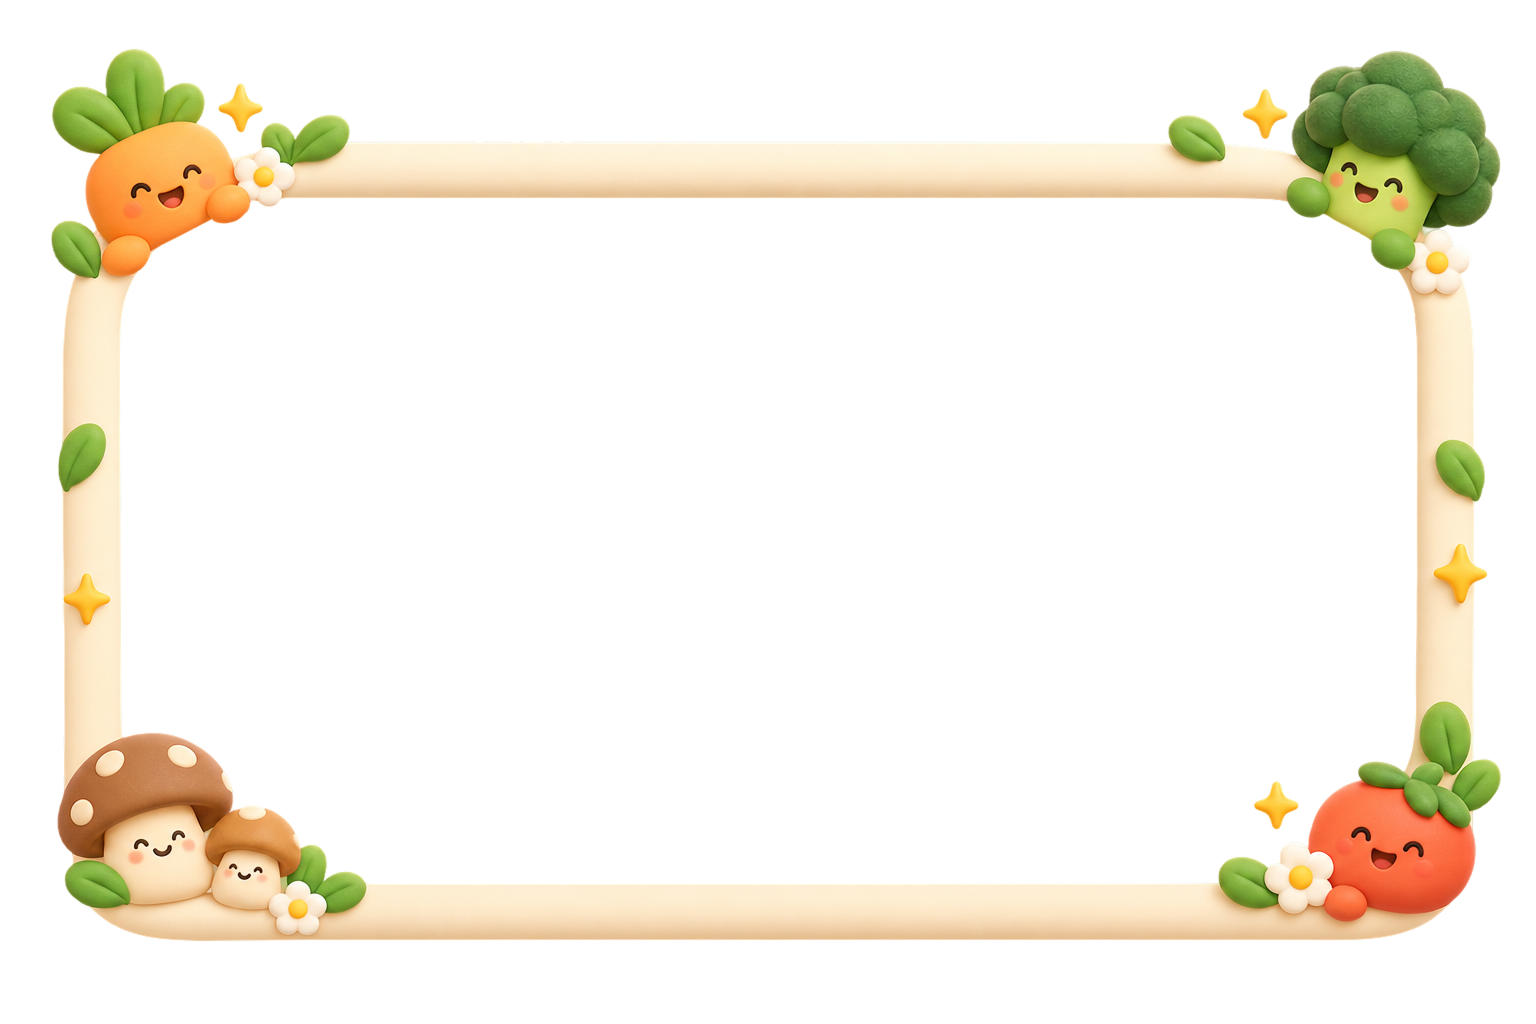
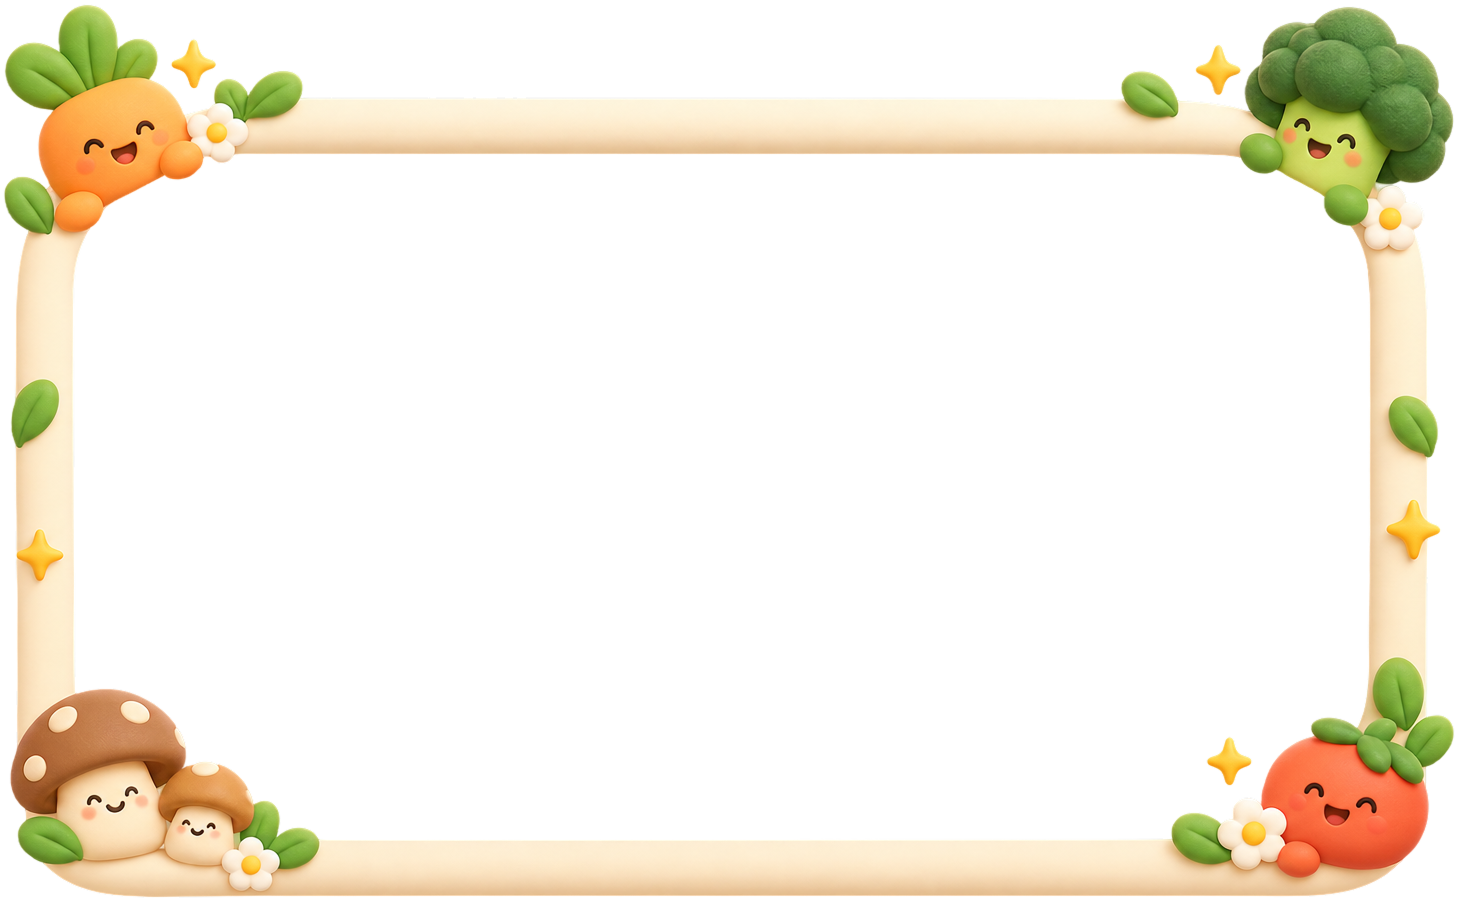
Scan station sized for the 55" TV: the framed camera fills the screen
The frame art is trimmed to its opaque bounds (1458x902, insets re-measured),
the build screens get the full TV width, the dance drops its redundant
heading so the frame takes nearly the whole height, the welcome mirror and
photo step grow to match, and prompts/titles scale up for viewing distance.

diff --git a/src/styles.css b/src/styles.css
@@ -152,7 +152,8 @@ body.stage-welcome { background: var(--bg1) url("/welcome-bg.jpg") center / cove
 .staff-item small { display: block; color: var(--muted); font-weight: 700; }
 
 /* ---- welcome: a mirror in the clay frame, auto-start (2-column landscape) ---- */
-body.stage-welcome .app { max-width: 1560px; }
+body.stage-welcome .app { max-width: 1800px; }
+body.stage-build .app { max-width: 1840px; }
 .welcome { flex-direction: row; flex-wrap: wrap; align-items: center; justify-content: center; gap: 40px; }
 .welcome-left { display: flex; flex-direction: column; align-items: center; text-align: center; gap: 18px; flex: 0 1 400px; min-width: 0; }
 .welcome-hero { display: flex; flex-direction: column; align-items: center; gap: 8px; }
@@ -173,7 +174,7 @@ body.stage-welcome .app { max-width: 1560px; }
 .mini-caption { font-weight: 800; font-size: 14px; color: #a8642a; white-space: nowrap; }
 .staff-start { opacity: 0.55; font-size: 16px; padding: 8px 18px; }
 /* the mirror */
-.mirror { display: flex; flex-direction: column; align-items: center; gap: 6px; flex: 1 1 640px; max-width: 1060px; min-width: min(100%, 520px); }
+.mirror { display: flex; flex-direction: column; align-items: center; gap: 6px; flex: 1 1 640px; max-width: min(1280px, calc((100vh - 120px) * 1.6164)); min-width: min(100%, 520px); }
 .mirror-stage { position: relative; width: 100%; }
 .mirror-cam { position: absolute; inset: 0; width: 100%; height: 100%; object-fit: cover; transform: scaleX(-1); }
 .mirror-overlay { position: absolute; inset: 0; width: 100%; height: 100%; pointer-events: none; }
@@ -182,15 +183,15 @@ body.stage-welcome .app { max-width: 1560px; }
 .mirror-ph p { margin: 0; }
 .mirror-flash { position: absolute; inset: 0; background: #fff; animation: snapFlash 0.55s ease-out forwards; }
 @keyframes snapFlash { from { opacity: 0.95; } to { opacity: 0; } }
-.mirror-pill { position: absolute; left: 50%; bottom: 4%; transform: translateX(-50%); z-index: 3; background: rgba(255, 255, 255, 0.94); color: var(--green-dark); font-weight: 800; font-size: clamp(18px, 2.1vw, 30px); padding: 10px 26px; border-radius: 999px; box-shadow: var(--shadow); white-space: nowrap; animation: promptBounce 0.8s ease-in-out infinite alternate; }
+.mirror-pill { position: absolute; left: 50%; bottom: 1.5%; transform: translateX(-50%); z-index: 3; background: rgba(255, 255, 255, 0.94); color: var(--green-dark); font-weight: 800; font-size: clamp(18px, 2.1vw, 38px); padding: 10px 26px; border-radius: 999px; box-shadow: var(--shadow); white-space: nowrap; animation: promptBounce 0.8s ease-in-out infinite alternate; }
 .mirror-pill.still, .mirror-pill.count { background: var(--green); color: #fff; }
 .mirror-note { margin: 0; font-size: 14px; font-weight: 700; color: var(--muted); }
 .gate-hud { position: absolute; left: 10px; top: 10px; margin: 0; z-index: 3; background: rgba(0, 0, 0, 0.55); color: #9ff; font: 600 13px/1.5 ui-monospace, monospace; padding: 8px 10px; border-radius: 10px; white-space: pre; }
 
 /* ---- the clay veggie frame around every camera view ---- */
-.cam-frame { position: relative; width: 100%; aspect-ratio: 3 / 2; }
+.cam-frame { position: relative; width: 100%; aspect-ratio: 1458 / 902; }
 /* the art's transparent window, measured from the painting (its inner edges) */
-.cam-window { position: absolute; left: 7.6%; top: 18.1%; right: 7.5%; bottom: 13.4%; border-radius: 5% / 9.5%; overflow: hidden; background: #1d2a18; }
+.cam-window { position: absolute; left: 5%; top: 15.9%; right: 6%; bottom: 6.8%; border-radius: 5% / 9%; overflow: hidden; background: #1d2a18; }
 .cam-frame-art { position: absolute; inset: 0; width: 100%; height: 100%; pointer-events: none; user-select: none; z-index: 2; }
 
 /* ---- top bar ---- */
@@ -285,12 +286,12 @@ body.stage-welcome .app { max-width: 1560px; }
 .lead small { color: var(--muted); font-weight: 700; font-size: 19px; }
 
 /* ---- camera ---- */
-.camera-box { width: min(100%, calc((100vh - 240px) * 1.5), 1100px); }
+.camera-box { width: min(100%, calc((100vh - 220px) * 1.6164), 1500px); }
 /* tablet landscape: the framed camera fills the stage */
 @media (orientation: landscape) {
   .app { max-width: 1240px; }
   .screen { padding: 14px 28px; gap: 14px; }
-  .camera-box { width: min(100%, calc((100vh - 200px) * 1.5), 1200px); }
+  .camera-box { width: min(100%, calc((100vh - 190px) * 1.6164), 1500px); }
 }
 /* invitation cover — camera stays OFF until the child taps this */
 .camera-cover { position: relative; width: 100%; height: 100%; border: none; cursor: pointer; font-family: inherit; background: linear-gradient(160deg, #faeed3, #d9ecf7); display: flex; flex-direction: column; align-items: center; justify-content: center; gap: 14px; padding: 24px; overflow: hidden; }
@@ -535,19 +536,19 @@ video.camera { transform: scaleX(-1); }
 @keyframes guideBreathe { 0%, 100% { inset: 9%; } 50% { inset: 7.5%; } }
 
 /* dance mini-game: one magic move per scene charges the magic gauge */
-.dance-stage { position: relative; display: flex; flex-direction: column; align-items: center; gap: 14px; width: min(96vw, 1500px); user-select: none; touch-action: manipulation; }
-.move-scene { display: flex; flex-direction: column; align-items: center; gap: 14px; width: 100%; animation: sceneIn 0.55s cubic-bezier(0.2, 0.9, 0.3, 1.2); }
+.dance-stage { position: relative; display: flex; flex-direction: column; align-items: center; gap: 10px; width: min(96vw, 1840px); user-select: none; touch-action: manipulation; }
+.move-scene { display: flex; flex-direction: column; align-items: center; gap: 10px; width: 100%; animation: sceneIn 0.55s cubic-bezier(0.2, 0.9, 0.3, 1.2); }
 @keyframes sceneIn { from { opacity: 0; transform: translateX(60px) scale(0.96); } to { opacity: 1; transform: none; } }
 .move-head { display: flex; align-items: center; gap: 14px; }
 .move-badge { background: #fff; color: var(--green-dark); font-weight: 800; font-size: clamp(14px, 2.2vmin, 20px); padding: 6px 14px; border-radius: 999px; box-shadow: var(--shadow); }
-.move-title { margin: 0; font-size: clamp(26px, 4.6vmin, 44px); font-weight: 800; color: var(--ink); }
+.move-title { margin: 0; font-size: clamp(26px, 5vmin, 54px); font-weight: 800; color: var(--ink); }
 /* the framed camera fills the stage; the guide child stands on its right edge */
-.dance-cam-wrap { position: relative; width: min(100%, calc((100vh - 300px) * 1.5)); }
+.dance-cam-wrap { position: relative; width: min(100%, calc((100vh - 215px) * 1.6164)); }
 .dance-cam-box { width: 100%; }
 .move-guide { position: absolute; right: 2%; bottom: 5%; height: 62%; z-index: 3; transform: translateX(40%); display: flex; flex-direction: column; align-items: center; justify-content: flex-end; pointer-events: none; }
 .move-guide img { height: 100%; width: auto; display: block; filter: drop-shadow(0 14px 16px rgba(120, 80, 30, 0.28)); animation: guideBob 2.2s ease-in-out infinite; transform-origin: 50% 100%; transition: filter 0.25s ease; }
 .move-guide.hit img { filter: drop-shadow(0 0 22px rgba(255, 190, 60, 0.95)) drop-shadow(0 14px 16px rgba(120, 80, 30, 0.28)); animation: guideCheer 0.5s ease-in-out infinite alternate; }
-.move-guide-label { position: absolute; bottom: 100%; margin-bottom: 8px; background: #fff; color: var(--green-dark); font-weight: 800; font-size: clamp(16px, 2.4vmin, 24px); padding: 8px 18px; border-radius: 999px; box-shadow: var(--shadow); white-space: nowrap; }
+.move-guide-label { position: absolute; bottom: 100%; margin-bottom: 8px; background: #fff; color: var(--green-dark); font-weight: 800; font-size: clamp(16px, 2.6vmin, 30px); padding: 8px 18px; border-radius: 999px; box-shadow: var(--shadow); white-space: nowrap; }
 .move-guide.hit .move-guide-label { background: var(--green); color: #fff; }
 @keyframes guideBob { 0%, 100% { transform: translateY(0) rotate(-1.5deg); } 50% { transform: translateY(-1.5%) rotate(1.5deg); } }
 @keyframes guideCheer { from { transform: scale(1.02) rotate(-3deg); } to { transform: scale(1.08) rotate(3deg); } }
@@ -557,12 +558,12 @@ video.camera { transform: scaleX(-1); }
 /* the beat between scenes */
 .move-cheer { position: absolute; inset: 0; z-index: 5; display: flex; flex-direction: column; align-items: center; justify-content: center; gap: 6px; background: rgba(253, 247, 231, 0.85); backdrop-filter: blur(6px); border-radius: var(--radius); font-size: clamp(34px, 6vmin, 64px); font-weight: 800; color: var(--green-dark); animation: pop 0.35s ease; }
 .move-cheer-star { font-size: 1.6em; animation: pictoCheer 0.4s ease-in-out infinite alternate; }
-.dance-prompt { position: absolute; left: 50%; bottom: 14px; transform: translateX(-50%); max-width: 92%; text-align: center; background: rgba(255, 255, 255, 0.92); color: var(--green-dark); font-weight: 800; font-size: clamp(18px, 3.4vmin, 30px); padding: 10px 22px; border-radius: 999px; box-shadow: var(--shadow); word-break: keep-all; animation: promptBounce 0.8s ease-in-out infinite alternate; }
+.dance-prompt { position: absolute; left: 50%; bottom: 14px; transform: translateX(-50%); max-width: 92%; text-align: center; background: rgba(255, 255, 255, 0.92); color: var(--green-dark); font-weight: 800; font-size: clamp(18px, 3.6vmin, 40px); padding: 10px 22px; border-radius: 999px; box-shadow: var(--shadow); word-break: keep-all; animation: promptBounce 0.8s ease-in-out infinite alternate; }
 @keyframes promptBounce { from { transform: translateX(-50%) translateY(0); } to { transform: translateX(-50%) translateY(-6px); } }
 .magic-gauge { position: relative; width: 100%; height: 42px; border-radius: 999px; background: rgba(255, 255, 255, 0.75); box-shadow: inset 0 2px 6px rgba(150, 100, 40, 0.18); overflow: hidden; }
 .magic-gauge-fill { height: 100%; border-radius: 999px; background: linear-gradient(90deg, #ffd54d, #ffb300, #ff8f5e); transition: width 0.25s ease-out; box-shadow: 0 0 14px rgba(255, 190, 60, 0.8); }
-.magic-gauge-label { position: absolute; inset: 0; display: flex; align-items: center; justify-content: center; font-weight: 800; color: #7a5410; font-size: clamp(15px, 2.6vmin, 22px); }
-.dance-hint { color: var(--ink-soft, #a3906f); font-size: clamp(13px, 2.2vmin, 18px); }
+.magic-gauge-label { position: absolute; inset: 0; display: flex; align-items: center; justify-content: center; font-weight: 800; color: #7a5410; font-size: clamp(15px, 2.6vmin, 26px); }
+.dance-hint { margin: 0; color: var(--ink-soft, #a3906f); font-size: clamp(13px, 2vmin, 20px); }
 
 /* "couldn't see it — hold it closer" auto-retry card */
 .noshow-card { display: flex; flex-direction: column; align-items: center; gap: 10px; background: #fff; border-radius: var(--radius); box-shadow: var(--shadow); padding: 34px 46px; font-size: clamp(18px, 3vmin, 26px); color: var(--ink); text-align: center; }

diff --git a/src/App.tsx b/src/App.tsx
@@ -22,9 +22,11 @@ export default function App() {
   }, []);
 
   // the welcome screen sits on the painted key visual; every other screen
-  // keeps the plain cream so the camera and results stay the focus
+  // keeps the plain cream so the camera and results stay the focus (and gets
+  // the full width of the 55" TV for the framed camera)
   useEffect(() => {
     document.body.classList.toggle("stage-welcome", stage === "welcome");
+    document.body.classList.toggle("stage-build", stage === "build");
   }, [stage]);
 
   function reset(reason: string) {

diff --git a/src/screens/Build.tsx b/src/screens/Build.tsx
@@ -330,7 +330,6 @@ function MagicStep({
   if (phase === "dance") {
     return (
       <div className="screen center-screen" style={{ alignItems: "center" }}>
-        <p className="lead">🕺 마법 동작으로 채소 친구를 깨워 줘!</p>
         <DanceCharge stream={stream} onFull={danceDone} />
       </div>
     );
